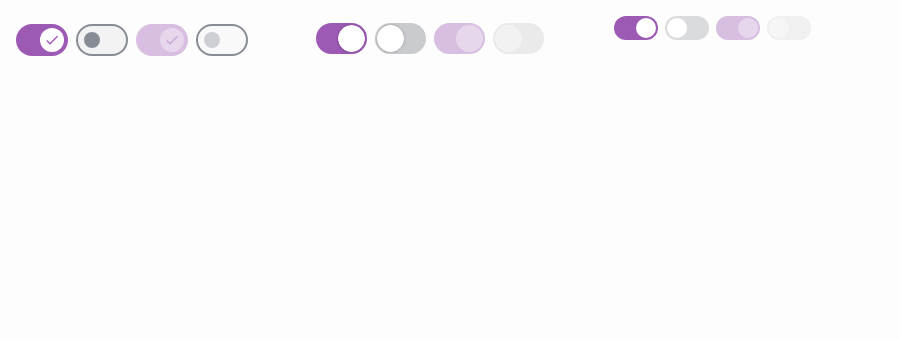
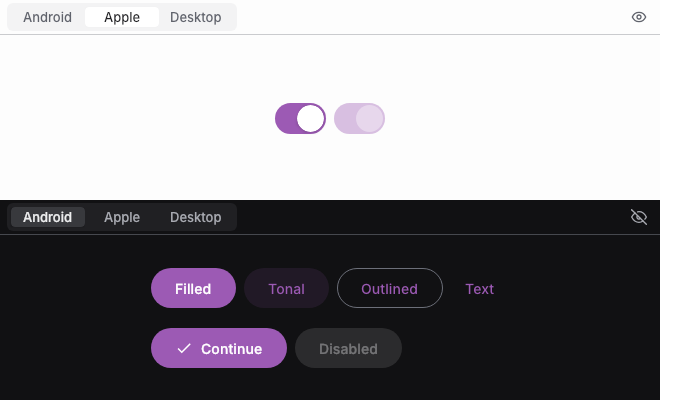
Give every demo its own idiom selector; fix frame clipping and centring
Replaces the three-frame "Across the idioms" row with one frame per demo
carrying an idiom segmented control and a light/dark toggle. Switching is a
recomposition rather than an iframe reload, every page drops from four wasm
frames to one, and the variants line up by construction.

- DemoScreen: chrome bar (idiom selector + mode toggle) over centred content;
  the chrome stays Desktop-idiom so it doesn't move when the content changes
- Demo.astro wraps the iframe in a clipping frame — an iframe paints over its
  parent's border-radius, so the rounding needs overflow:hidden on a wrapper
- Interactive demos no longer enumerate states you can produce by clicking:
  Switch, Checkbox and ToggleButton keep one live instance plus the disabled
  case, which a click can't reach
- URL params now seed the selector rather than fixing the idiom

Claude-Session: https://claude.ai/code/session_015zYoroniDBfwSqM66RuUP8

diff --git a/catalog/shared/src/commonMain/kotlin/com/r0adkll/ditto/catalog/Demos.kt b/catalog/shared/src/commonMain/kotlin/com/r0adkll/ditto/catalog/Demos.kt
@@ -1,6 +1,22 @@
 package com.r0adkll.ditto.catalog
 
 import androidx.compose.foundation.layout.Box
+import androidx.compose.foundation.isSystemInDarkTheme
+import androidx.compose.foundation.layout.Arrangement
+import androidx.compose.foundation.layout.Column
+import androidx.compose.foundation.layout.Row
+import androidx.compose.foundation.layout.Spacer
+import androidx.compose.foundation.layout.fillMaxWidth
+import androidx.compose.foundation.layout.width
+import androidx.compose.runtime.getValue
+import androidx.compose.runtime.mutableStateOf
+import androidx.compose.runtime.setValue
+import androidx.compose.ui.unit.dp
+import com.r0adkll.ditto.components.HorizontalDivider
+import com.r0adkll.ditto.components.IconButton
+import com.r0adkll.ditto.components.SegmentedControl
+import com.r0adkll.ditto.icons.DittoIcons
+import androidx.compose.ui.Alignment
 import androidx.compose.foundation.layout.fillMaxSize
 import androidx.compose.foundation.layout.padding
 import androidx.compose.runtime.Composable
@@ -82,9 +98,15 @@ fun catalogDemos(): List<DemoItem> = listOf(
 )
 
 /**
- * Renders a single demo on its own, themed and padded, for embedding in a docs page (one lazy
- * iframe per component). Unknown ids render a visible message rather than a blank frame, so a
- * broken embed is obvious on the page instead of silently empty.
+ * Renders one demo on its own for embedding in a docs page: a compact chrome bar with an idiom
+ * selector and a light/dark toggle, then the demo centred beneath it.
+ *
+ * The selector lives *inside* the frame on purpose. Switching idiom from the host page would mean
+ * changing the iframe `src`, which re-instantiates the whole wasm runtime; here it is a
+ * recomposition, which is what makes runtime idiom switching worth showing at all.
+ *
+ * [idiom] and [colorMode] seed the controls, so a deep link like `?id=switch&idiom=apple` still
+ * opens on the right variant.
  */
 @Composable
 fun DemoScreen(
@@ -92,14 +114,51 @@ fun DemoScreen(
   idiom: Idiom = platformIdiom(),
   colorMode: ColorMode = ColorMode.System,
 ) {
-  DittoTheme(accent = DittoBrand.Violet, idiom = idiom, colorMode = colorMode) {
+  var selectedIdiom by remember(idiom) { mutableStateOf(idiom) }
+  var selectedMode by remember(colorMode) { mutableStateOf(colorMode) }
+  val demo = catalogDemos().firstOrNull { it.id == id }
+  val dark = when (selectedMode) {
+    ColorMode.Light -> false
+    ColorMode.Dark -> true
+    ColorMode.System -> isSystemInDarkTheme()
+  }
+
+  // The chrome is always Desktop-idiom so it stays put while the content below it changes.
+  DittoTheme(accent = DittoBrand.Violet, idiom = Idiom.Desktop, colorMode = selectedMode) {
     Surface(color = DittoTheme.colors.background, modifier = Modifier.fillMaxSize()) {
-      Box(Modifier.fillMaxSize().padding(DittoTheme.spacing.lg)) {
-        val demo = catalogDemos().firstOrNull { it.id == id }
-        if (demo != null) {
-          demo.content()
-        } else {
-          Text("No demo registered for id \"$id\"", color = DittoTheme.colors.error)
+      Column(Modifier.fillMaxSize()) {
+        Row(
+          Modifier
+            .fillMaxWidth()
+            .padding(horizontal = DittoTheme.spacing.sm, vertical = DittoTheme.spacing.xs),
+          verticalAlignment = Alignment.CenterVertically,
+          horizontalArrangement = Arrangement.spacedBy(DittoTheme.spacing.sm),
+        ) {
+          SegmentedControl(
+            options = Idiom.entries.map { it.name },
+            selectedIndex = Idiom.entries.indexOf(selectedIdiom),
+            onSelect = { selectedIdiom = Idiom.entries[it] },
+            modifier = Modifier.width(230.dp),
+          )
+          Spacer(Modifier.weight(1f))
+          IconButton(
+            icon = if (dark) DittoIcons.visibilityOff else DittoIcons.visibility,
+            contentDescription = "Toggle light and dark",
+            onClick = { selectedMode = if (dark) ColorMode.Light else ColorMode.Dark },
+          )
+        }
+        HorizontalDivider()
+        Box(
+          Modifier.fillMaxSize().padding(DittoTheme.spacing.lg),
+          contentAlignment = Alignment.Center,
+        ) {
+          DittoTheme(accent = DittoBrand.Violet, idiom = selectedIdiom, colorMode = selectedMode) {
+            if (demo != null) {
+              demo.content()
+            } else {
+              Text("No demo registered for id \"$id\"", color = DittoTheme.colors.error)
+            }
+          }
         }
       }
     }

diff --git a/catalog/shared/src/commonMain/kotlin/com/r0adkll/ditto/catalog/ComponentDemos.kt b/catalog/shared/src/commonMain/kotlin/com/r0adkll/ditto/catalog/ComponentDemos.kt
@@ -74,10 +74,8 @@ internal fun IconButtonDemo() = Line {
 @Composable
 internal fun ToggleButtonDemo() {
   var on by remember { mutableStateOf(true) }
-  var bold by remember { mutableStateOf(false) }
   Line {
     ToggleButton(checked = on, onCheckedChange = { on = it }) { Icon(DittoIcons.check, null); Text(if (on) " On" else " Off") }
-    ToggleButton(checked = bold, onCheckedChange = { bold = it }) { Text("Bold") }
     ToggleButton(checked = true, onCheckedChange = {}, enabled = false) { Text("Disabled") }
   }
 }
@@ -93,23 +91,18 @@ internal fun FabDemo() = Line {
 @Composable
 internal fun SwitchDemo() {
   var wifi by remember { mutableStateOf(true) }
-  var cell by remember { mutableStateOf(false) }
   Line {
     Switch(checked = wifi, onCheckedChange = { wifi = it })
-    Switch(checked = cell, onCheckedChange = { cell = it })
     Switch(checked = true, onCheckedChange = null, enabled = false)
-    Switch(checked = false, onCheckedChange = null, enabled = false)
   }
 }
 
 @Composable
 internal fun CheckboxDemo() {
   var a by remember { mutableStateOf(true) }
-  var b by remember { mutableStateOf(false) }
   var tri by remember { mutableStateOf(ToggleableState.Indeterminate) }
   Line {
     Checkbox(checked = a, onCheckedChange = { a = it })
-    Checkbox(checked = b, onCheckedChange = { b = it })
     TriStateCheckbox(
       state = tri,
       onClick = {

diff --git a/docs-site/src/styles/brand.css b/docs-site/src/styles/brand.css
@@ -20,22 +20,27 @@
   --sl-color-accent-high: #3a155b;
 }
 
-/* Live demo frames: definite height is required — Compose sizes its canvas from the
-   container, and only re-layouts on window resize. */
+/* Live demo frames. A definite height is required: Compose sizes its canvas from the container
+   and only re-layouts on *window* resize, so the frame must not depend on its content. */
 .ditto-demo {
-  width: 100%;
+  margin: 1.5rem 0;
+}
+.ditto-demo-frame {
   border: 1px solid var(--sl-color-gray-5);
   border-radius: 0.5rem;
+  /* An iframe paints its own background over the parent's rounded corners; clipping here is what
+     actually rounds it. */
+  overflow: hidden;
   background: var(--sl-color-bg);
+}
+.ditto-demo-frame iframe {
   display: block;
+  width: 100%;
+  height: 100%;
+  border: 0;
 }
-.ditto-demo-row {
-  display: grid;
-  gap: 0.75rem;
-  grid-template-columns: repeat(auto-fit, minmax(230px, 1fr));
-}
-.ditto-demo-caption {
+.ditto-demo figcaption {
   font-size: var(--sl-text-xs);
   color: var(--sl-color-gray-3);
-  margin: 0.25rem 0 0;
+  margin: 0.4rem 0 0;
 }

diff --git a/catalog/shared/src/jvmTest/kotlin/com/r0adkll/ditto/catalog/DemoScreenTest.kt b/catalog/shared/src/jvmTest/kotlin/com/r0adkll/ditto/catalog/DemoScreenTest.kt
@@ -27,13 +27,15 @@ class DemoScreenTest {
     ids.forEach { assertTrue(slug.matches(it), "demo id is not slug-like: $it") }
   }
 
+  /** What a docs page actually embeds: one frame, chrome bar on top, demo centred beneath. */
   @Test
-  fun singleDemoAcrossIdioms() = assertScreenshot("demo-screen", width = 900, height = 340) {
-    Row {
-      listOf(Idiom.Android, Idiom.Apple, Idiom.Desktop).forEach { idiom ->
-        Column(Modifier.size(300.dp, 340.dp)) {
-          DemoScreen(id = "switch", idiom = idiom, colorMode = ColorMode.Light)
-        }
+  fun demoFrame() = assertScreenshot("demo-screen", width = 680, height = 420) {
+    Column {
+      Column(Modifier.size(660.dp, 200.dp)) {
+        DemoScreen(id = "switch", idiom = Idiom.Apple, colorMode = ColorMode.Light)
+      }
+      Column(Modifier.size(660.dp, 200.dp)) {
+        DemoScreen(id = "button", idiom = Idiom.Android, colorMode = ColorMode.Dark)
       }
     }
   }
